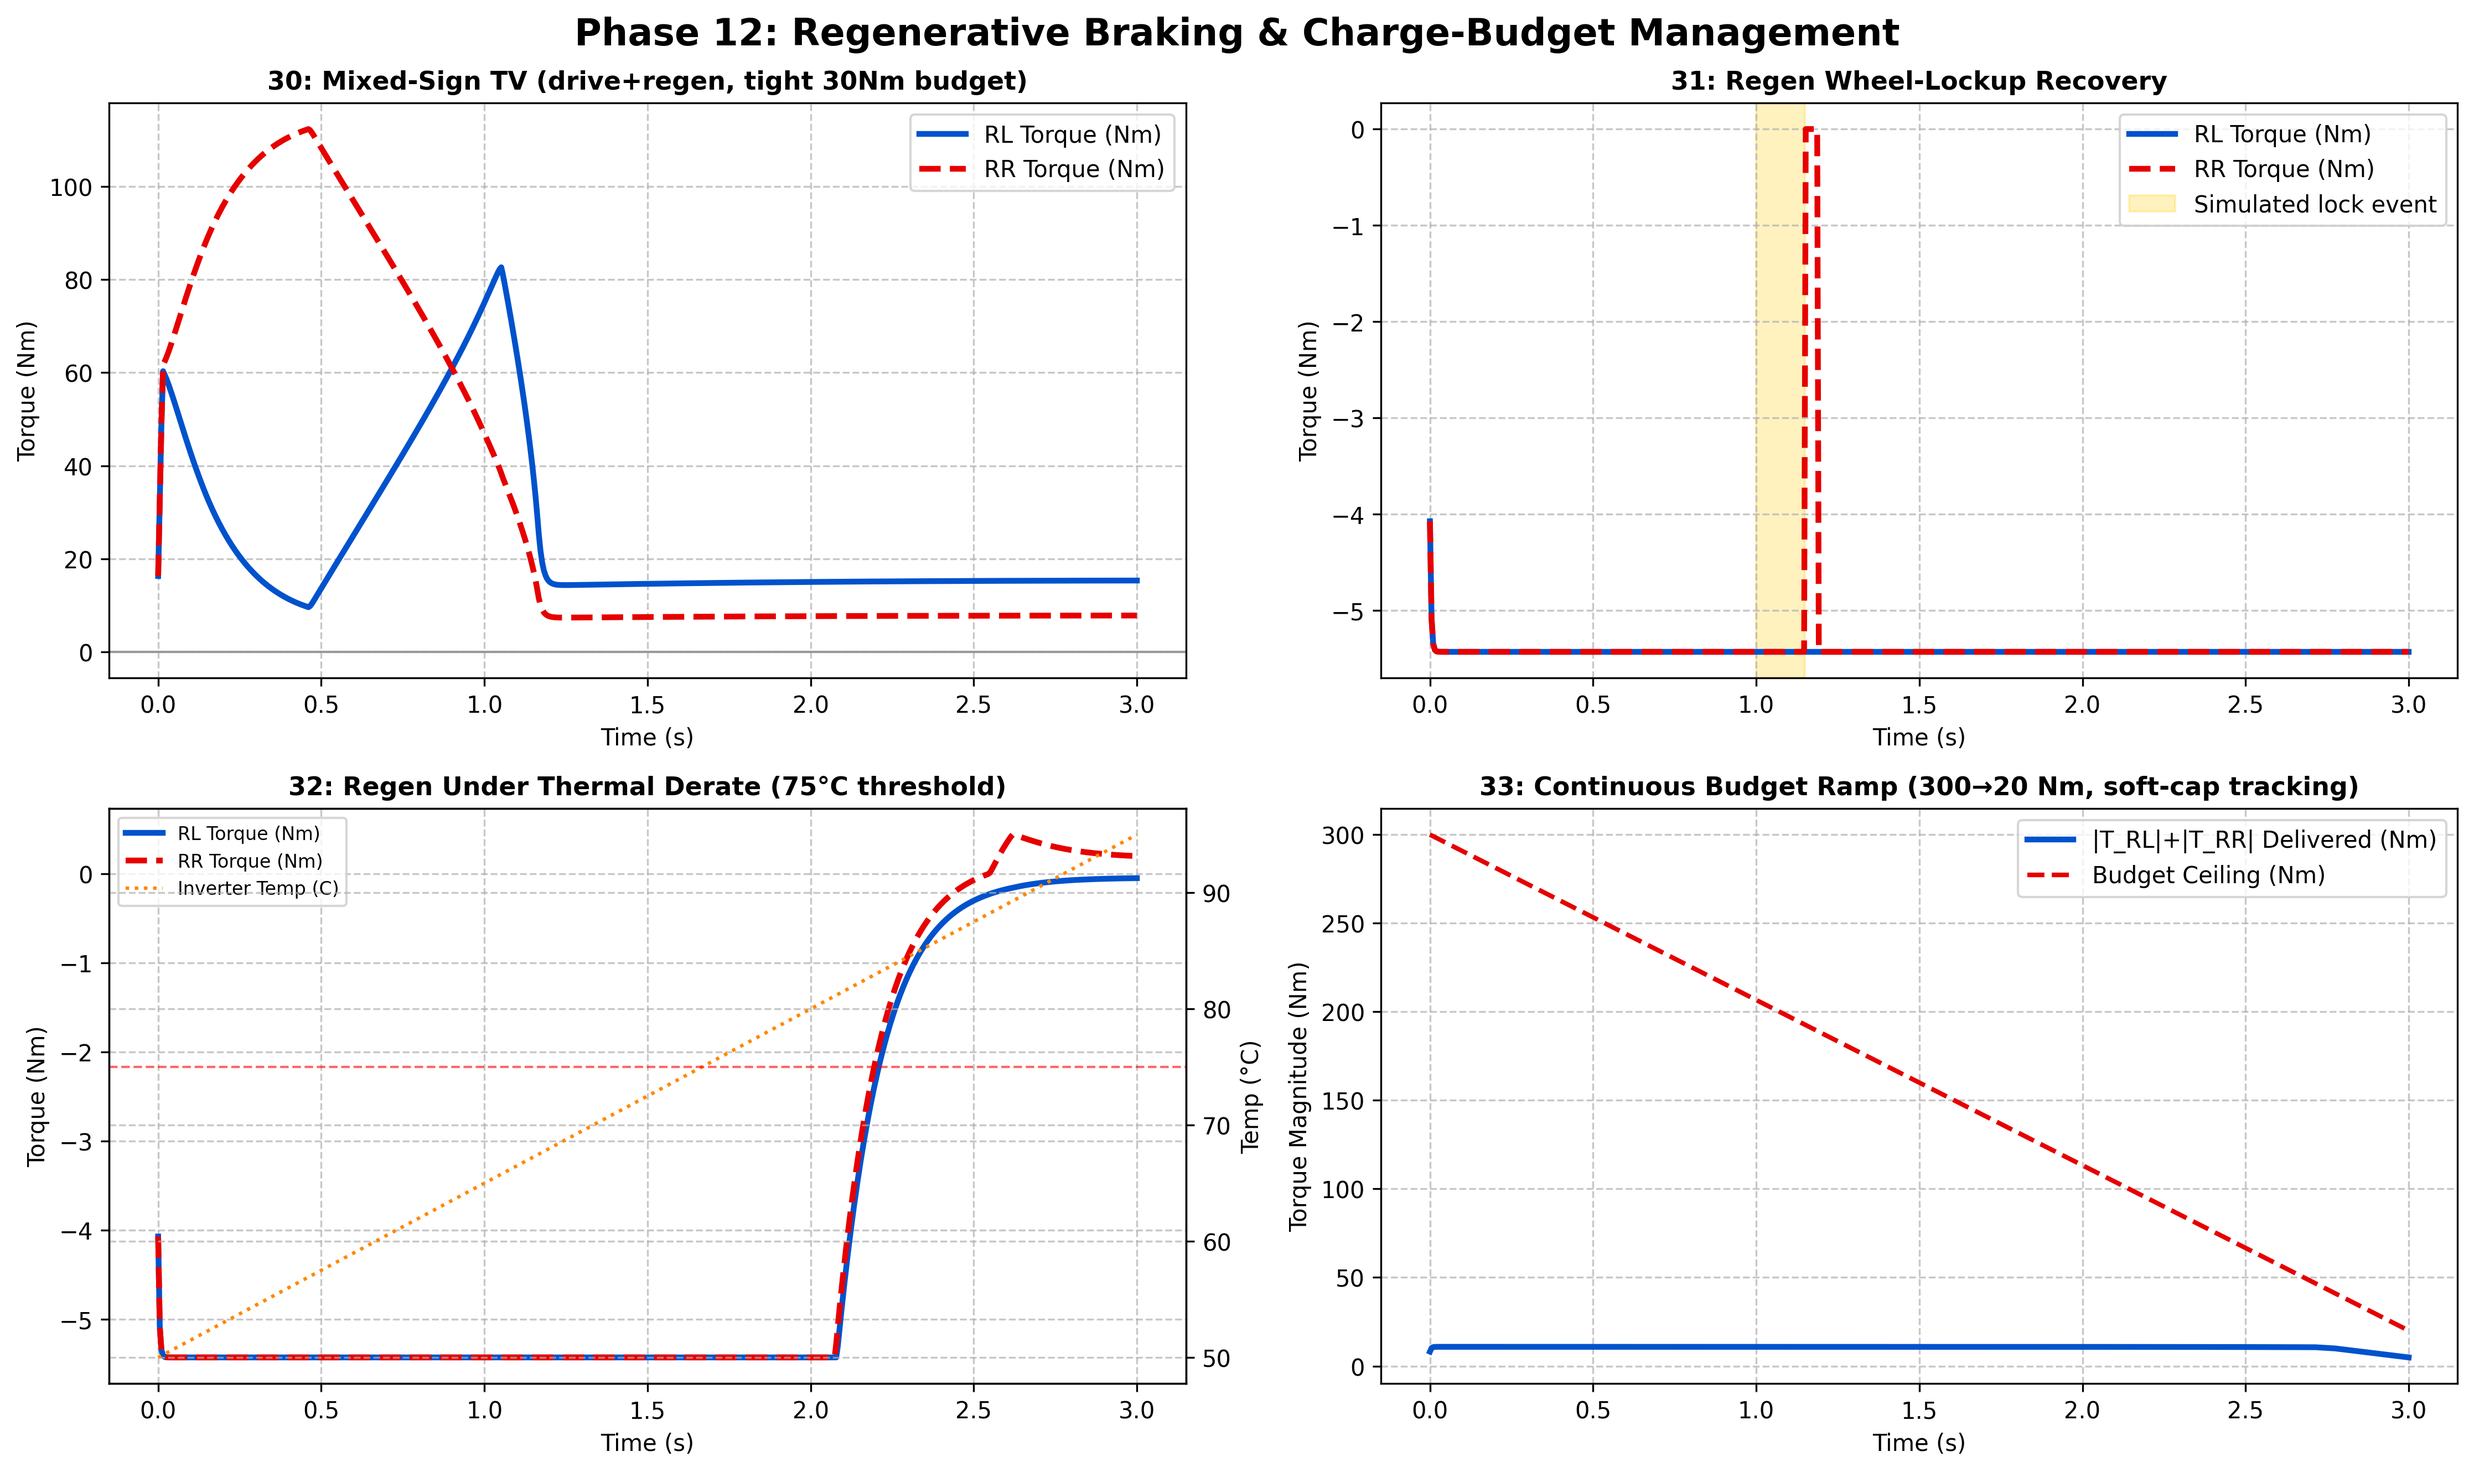
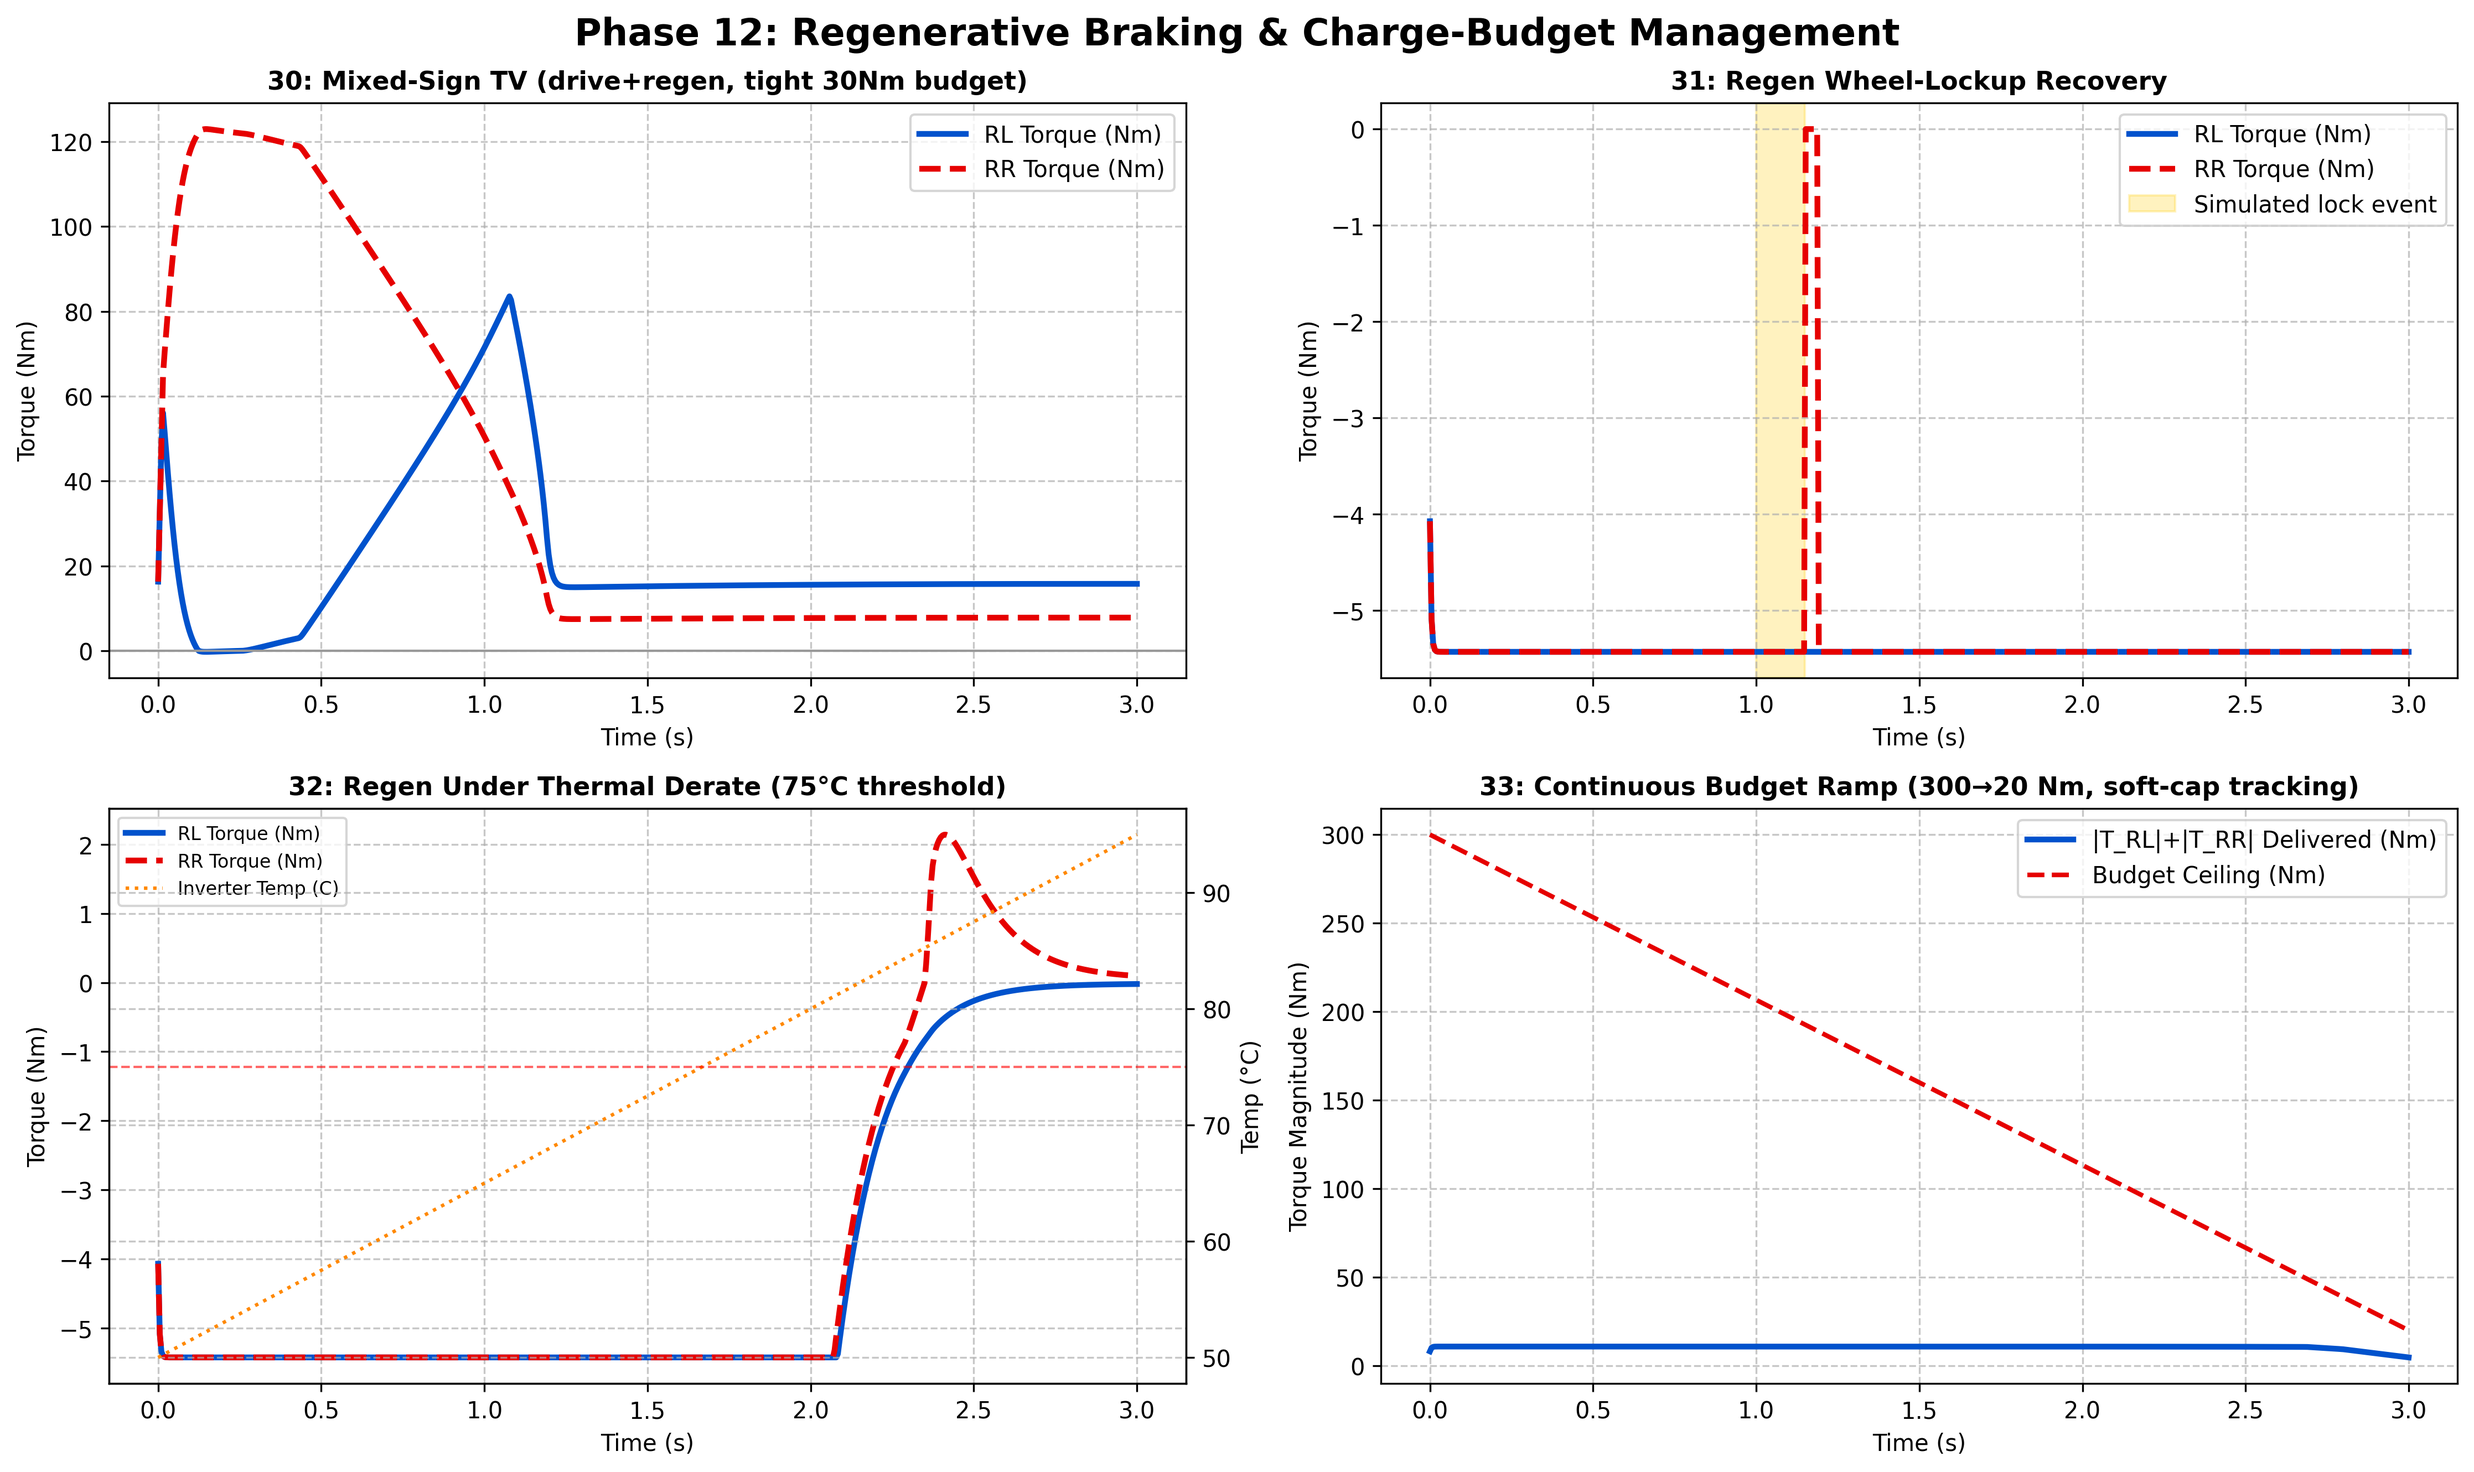
feat(v3): successfully certify AL-QP torque vectoring pipeline and master sanity suite

diff --git a/SOFTWARE/TeR_ECU/Libraries/TRQ_VECTORING/tune_weights.py b/SOFTWARE/TeR_ECU/Libraries/TRQ_VECTORING/tune_weights.py
@@ -7,23 +7,33 @@ from sklearn.gaussian_process import GaussianProcessRegressor
 from sklearn.gaussian_process.kernels import Matern
 
 def update_header_file(smooth_val, reg_val, kp_val):
-    """ Programmatically updates the #define macros in header files using explicit group references """
-    with open("inc/gp_solver.h", "r") as f:
-        content = f.read()
+    """ Programmatically updates tuning macros in inc/gp_params.h """
+    params_path = "inc/gp_params.h"
     
-    content = re.sub(r'(#define GP_W_SMOOTH\s+)[0-9\.]+(f?)', rf'\g<1>{smooth_val:.3f}f', content)
-    content = re.sub(r'(#define GP_W_REG\s+)[0-9\.]+(f?)', rf'\g<1>{reg_val:.3f}f', content)
+    c_smooth, c_reg, c_kp = 0, 0, 0
     
-    with open("inc/gp_solver.h", "w") as f:
-        f.write(content)
-
-    with open("inc/gp_traction_control.h", "r") as f:
-        tc_content = f.read()
-        
-    tc_content = re.sub(r'(#define GP_TC_KP\s+)[0-9\.]+(f?)', rf'\g<1>{kp_val:.3f}f', tc_content)
-    
-    with open("inc/gp_traction_control.h", "w") as f:
-        f.write(tc_content)
+    if os.path.exists(params_path):
+        with open(params_path, "r") as f:
+            lines = f.readlines()
+            
+        new_lines = []
+        for line in lines:
+            if "#define" in line:
+                if "GP_W_SMOOTH" in line:
+                    line = f"#define GP_W_SMOOTH   {smooth_val:.3f}f   // Actuator rate penalty weight\n"
+                    c_smooth += 1
+                elif "GP_W_REG" in line:
+                    line = f"#define GP_W_REG    {reg_val:.3f}f\n"
+                    c_reg += 1
+                elif "GP_TC_KP" in line:
+                    line = f"#define GP_TC_KP      {kp_val:.3f}f   // Traction control proportional gain\n"
+                    c_kp += 1
+            new_lines.append(line)
+            
+        with open(params_path, "w") as f:
+            f.writelines(new_lines)
+            
+    print(f"[DEBUG] Updates applied -> Smooth: {c_smooth}, Reg: {c_reg}, KP: {c_kp}")
 
 def compile_c_core():
     """ Re-compiles gp_core.so with the new weights """
@@ -34,10 +44,13 @@ def compile_c_core():
         "src/gp_solver.c",
         "src/gp_traction_control.c",
         "src/gp_torque_vectoring.c",
-        "-I.", "-Isrc", "-Iinc",
+        "src/gp_ekf.c",
+        "-I.", "-Isrc", "-Iinc", "-I../../TeR/Inc",
         "-o", "gp_core.so"
     ]
     result = subprocess.run(cmd, capture_output=True, text=True)
+    if result.returncode != 0:
+        print("Compilation Error:", result.stderr)
     return result.returncode == 0
 
 def evaluate_in_subprocess():
@@ -49,8 +62,8 @@ from master_sanity_checks import TVState, run_scenario, scenario_limit_slalom
 
 try:
     gp_lib = ctypes.CDLL('./gp_core.so')
-except OSError:
-    print("ERR")
+except OSError as e:
+    print("ERR:", e)
     exit(1)
 
 gp_lib.gp_tv_step.argtypes = [
@@ -64,7 +77,8 @@ gp_lib.gp_tv_init.argtypes = [ctypes.POINTER(TVState)]
 time_steps = np.linspace(0, 3.0, 600)
 dt = time_steps[1] - time_steps[0]
 
-rl, rr, diff = run_scenario(time_steps, scenario_limit_slalom)
+scenario_res = run_scenario(time_steps, scenario_limit_slalom)
+rl, rr, diff = scenario_res[0], scenario_res[1], scenario_res[2]
 slew_rate = np.diff(rl) / dt
 rms_noise = np.std(slew_rate)
 
@@ -79,6 +93,10 @@ print(f"{cost:.2f}")
 """
     result = subprocess.run([sys.executable, "-c", eval_script], capture_output=True, text=True)
     if result.returncode != 0 or "ERR" in result.stdout:
+        print("--- SUBPROCESS ERROR TRACE ---")
+        print(result.stderr)
+        print(result.stdout)
+        print("------------------------------")
         return float('inf')
     try:
         return float(result.stdout.strip())
@@ -180,4 +198,4 @@ def run_bayesian_optimization(total_iterations=30, init_random=5):
     compile_c_core()
 
 if __name__ == "__main__":
-    run_bayesian_optimization(total_iterations=1000, init_random=20)
+    run_bayesian_optimization(total_iterations=500, init_random=20)

diff --git a/SOFTWARE/TeR_ECU/Libraries/TRQ_VECTORING/inc/gp_params.h b/SOFTWARE/TeR_ECU/Libraries/TRQ_VECTORING/inc/gp_params.h
@@ -6,7 +6,6 @@
  * scalar gain shared across the solver, traction-control, and torque-vectoring
  * translation units.
  *
- * PRIOR STATE: GP_W_SMOOTH / GP_W_REG / GP_TC_KP were #defined identically in
  * THREE places (gp_solver.h, gp_traction_control.h, gp_torque_vectoring.h).
  * tune_weights.py regex-patches only the first two files. Because C macro
  * redefinition silently takes "last definition wins" within a translation
@@ -19,12 +18,12 @@
  * needs to write.
  * ============================================================================ */
 
-#define GP_W_SMOOTH   10.799f   // Actuator rate penalty weight
-#define GP_W_REG      0.256f   // Torque regularization weight
+#define GP_W_SMOOTH   5.999f   // Actuator rate penalty weight
+#define GP_W_REG    0.401f
 #define GP_RHO_AL     5.0f     // Augmented Lagrangian constraint enforcement
 #define GP_QP_ITER    16       // Fixed AL-QP iteration count -> deterministic O(1)
 
-#define GP_TC_KP      26.989f  // Traction control proportional gain
+#define GP_TC_KP      23.113f   // Traction control proportional gain
 #define GP_TC_KI      12.0f    // Traction control integral gain
 
 // ── Regen active-set transition softness ───────────────────────────

diff --git a/SOFTWARE/TeR_ECU/Libraries/TRQ_VECTORING/inc/gp_traction_control.h b/SOFTWARE/TeR_ECU/Libraries/TRQ_VECTORING/inc/gp_traction_control.h
@@ -7,7 +7,7 @@
 #define GP_TRACTION_CONTROL_H
 
 #include "gp_vehicle_model.h"
-#include "gp_params.h"  // GP_TC_KP, GP_TC_KI — canonical, see gp_params.h
+#include "gp_params.h"
 
 // ── Parámetros del Control de Tracción (Hoosier R20), NOT Bayesian-tuned ────
 #define GP_TC_B0             14.0f     // Rigidez Pacejka BCD sin carga

diff --git a/SOFTWARE/TeR_ECU/Libraries/TRQ_VECTORING/inc/gp_solver.h b/SOFTWARE/TeR_ECU/Libraries/TRQ_VECTORING/inc/gp_solver.h
@@ -2,7 +2,7 @@
 #define GP_SOLVER_H
 
 #include "gp_vehicle_model.h"
-#include "gp_params.h"   // GP_W_REG, GP_W_SMOOTH, GP_RHO_AL, GP_QP_ITER — canonical, see gp_params.h
+#include "gp_params.h"
 
 void gp_nominal_allocation(float fx_driver, float mz_target, float t_nom_out[4]);
 
